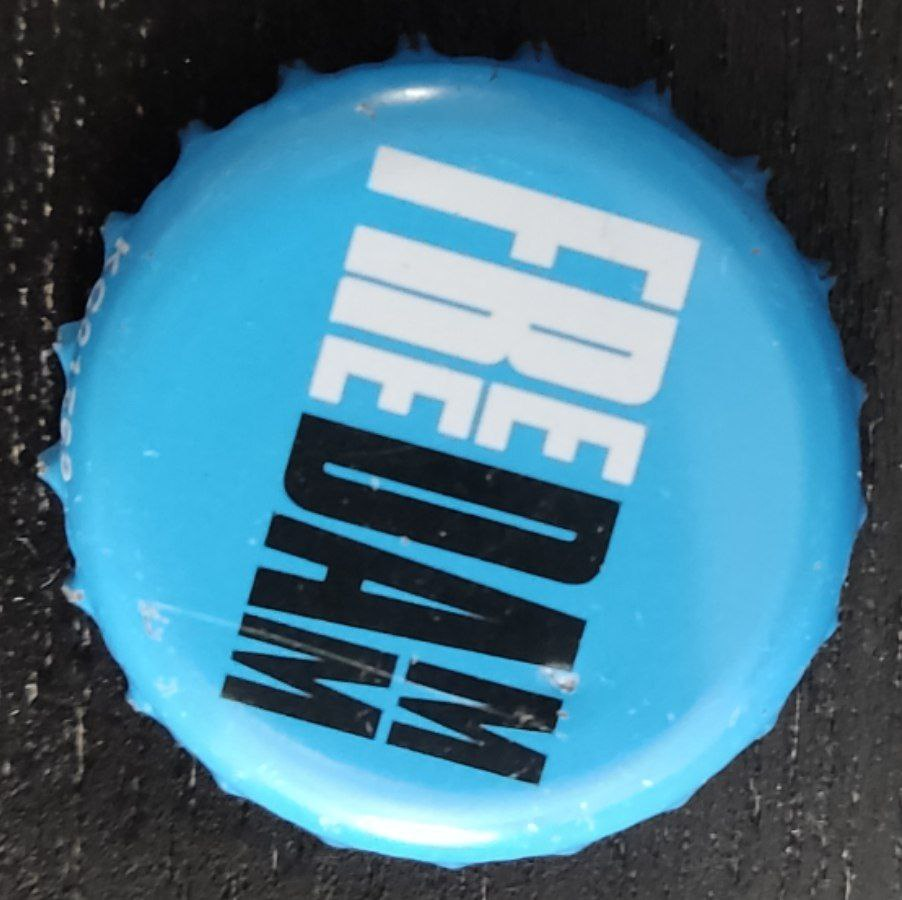
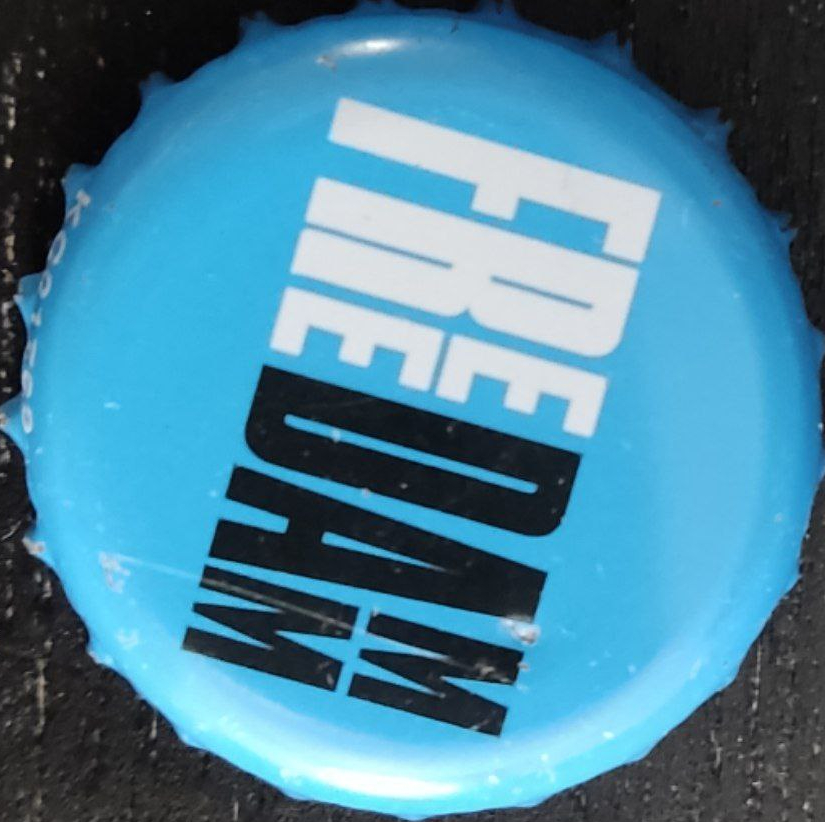
Changes on size

diff --git a/aux_scripts.py b/aux_scripts.py
@@ -1,5 +1,10 @@
+import os
+
 import cv2
 import numpy as np
+import sys
+
+from Classes.KPsDcps import SIFTApplied
 
 
 def find_dominant_color(img: np.ndarray) -> tuple[int, int, int]:
@@ -46,12 +51,32 @@ def resize_img_pix_with_name(cap_path, path_output, pix):
     cap_name = get_name_from_path(cap_path)
     lst_name_cap = cap_name.split(".")
     cap_name = lst_name_cap[0] + "_{}".format(str(pix)) + "." + lst_name_cap[-1]
-    resize_image(cap_path, pix, pix, path_output, cap_name)
+    output = resize_image(cap_path, pix, pix, path_output, cap_name)
+    return output
+
 
 def resize_image(path_to_image, width, height, where_save, name_output):
     src = read_img(path_to_image)
-    print(width, height)
     resized = cv2.resize(src, (width, height))
-    print(where_save+name_output)
-    cv2.imwrite(where_save + name_output, resized)
+    output = where_save + name_output
+    cv2.imwrite(output, resized)
+    return output
 
+
+def resize_all_images(path, output, size):
+    files = os.listdir(path)
+    print(files)
+    for file in files:
+        resize_img_pix_with_name(path + file, output, size)
+
+
+def get_kps_path(path):
+    files = os.listdir(path)
+    for file in files:
+        img = read_img(path + file)
+        print("File {} with {} kps".format(file, len(SIFTApplied(img).kps)))
+
+
+if __name__ == '__main__':
+    resize_all_images("./caps_imgs/", "./resized_caps_imgs/", 200)
+    get_kps_path("./resized_caps_imgs/")

diff --git a/Classes/DetectionManager.py b/Classes/DetectionManager.py
@@ -7,7 +7,7 @@ from Classes.Detection import Detection
 from aux_scripts import read_img
 from Classes.KPsDcps import SIFTApplied, SIFTMatch
 
-MY_CAPS_IMGS_FOLDER = "./caps_imgs/"
+MY_CAPS_IMGS_FOLDER = "./resized_caps_imgs/"
 
 
 class DetectionManager:
@@ -49,7 +49,6 @@ class DetectionManager:
                 squares.append(square)
         return squares
 
-    # TODO: Matches can't be one to one, the method must look all overlaping sets and then take one of them that's why case 3 it's failing
     def detect_non_overlapping_squares(self) -> set[SquareDetection]:
         squares = self.get_all_squares()
         not_overlapping = set()

diff --git a/main.py b/main.py
@@ -22,4 +22,4 @@ def get_value_const():
 
 
 if __name__ == '__main__':
-    look_in_all_images("./test_images/4.jpg")
+    look_in_all_images("./test_images/3.jpg")
